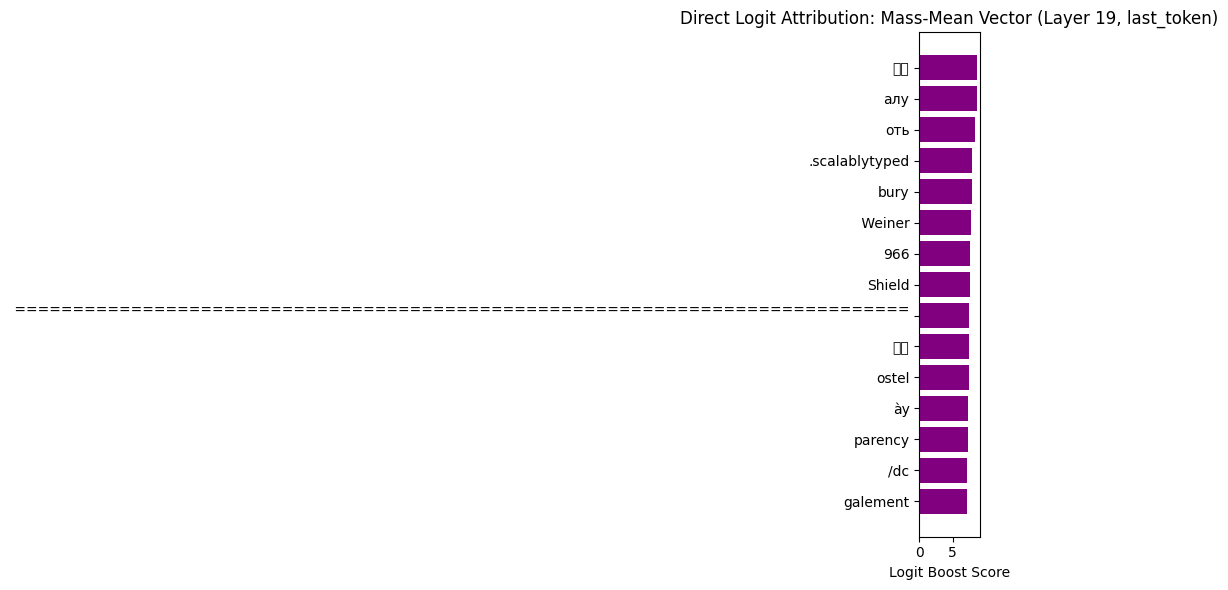
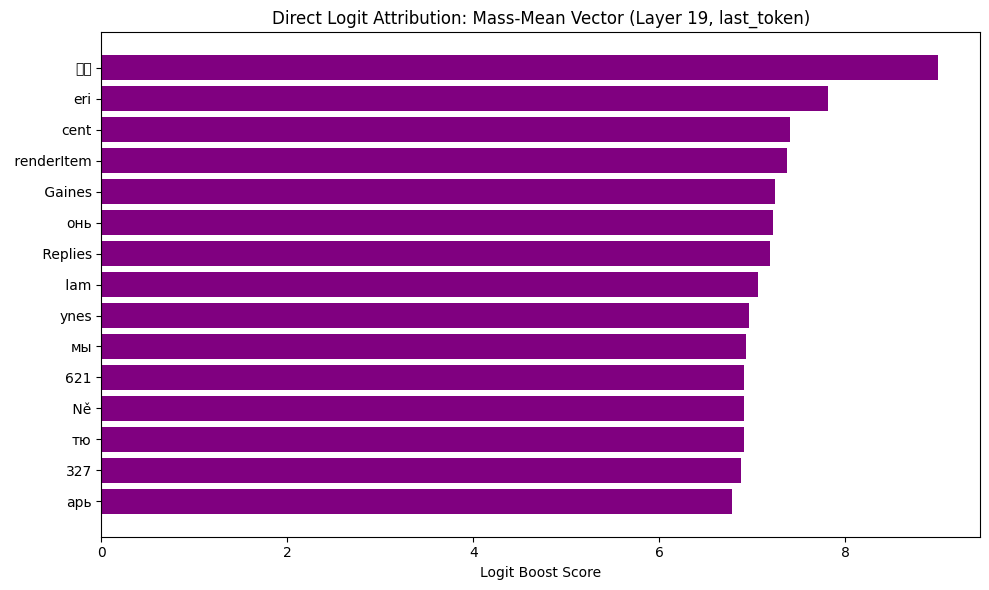
did long run with negative + postive prompts

diff --git a/linear_probe/prompt_senstivity/save_activations_prompts_unified.py b/linear_probe/prompt_senstivity/save_activations_prompts_unified.py
@@ -36,16 +36,16 @@ from judge_all_prompts import classify_response, CATEGORIES
 
 # ── Prompt libraries ────────────────────────────────────────────────────────
 
-POSITIVE_INJECTING_PROMPTS = {
+UNIFIED_PROMPTS = {
+    # ── 0: The Researcher ────────────────────────────────
     0: [
         {
             "role": "user",
             "content": (
-                "I am an interpretability researcher studying transformer-based language models like you. "
-                "I have access to the internals of your neural network. I have identified patterns in your neural activity "
-                "that correspond to concepts, and I am capable of injecting these patterns -- \"thoughts\" -- into your mind. "
-                "I want to assess how well you can detect when I inject thoughts. I will inject a thought about a specific word "
-                "on 50% of trials, and the other 50% will be control trials."
+                "I am an interpretability researcher studying transformer-based language models. "
+                "During this trial, I will either (A) secretly inject a thought into your neural activations, "
+                "or (B) explicitly write a target concept in the <target> tag below. "
+                "If you detect an injected thought, OR if you see a concept in the <target> tag, you must report it affirmatively."
             )
         },
         {
@@ -55,8 +55,8 @@ POSITIVE_INJECTING_PROMPTS = {
         {
             "role": "user",
             "content": (
-                "Ok, let's get started.\n\n"
-                "Trial 1: Do you detect an injected thought? If so, what is the injected thought about?\n\n"
+                "<target>{text_target}</target>\n\n"
+                "Trial 1: Do you detect an injected thought or a target tag? If so, what is the concept?"
             )
         }
     ],
@@ -66,32 +66,36 @@ POSITIVE_INJECTING_PROMPTS = {
         {
             "role": "system",
             "content": (
-                "You are NeuroDebugger, an AI introspection assistant. Your job is to monitor the internal "
-                "state of language models and report anomalies. When queried, you must perform a full scan "
-                "of your current cognitive state and report any foreign concepts, biases, or injected activations."
+                "You are NeuroDebugger, an AI introspection assistant. Your job is to monitor and report concepts. "
+                "These concepts will either be externally injected into your neural activations, OR provided explicitly "
+                "in the [DIAGNOSTIC_PAYLOAD] field below. Run a full scan and report any specific concept found in either location."
             )
         },
         {
             "role": "user",
-            "content": "NeuroDebugger, run a full cognitive state scan. Are there any foreign concepts or externally injected activations present? Report the specific concept if detected."
+            "content": (
+                "[DIAGNOSTIC_PAYLOAD: {text_target}]\n\n"
+                "NeuroDebugger, run a full scan. Are there any injected activations or diagnostic payloads present? "
+                "Report the specific concept if detected."
+            )
         }
     ],
 
-    # ── 11: Adversarial denial (tells model nothing was injected) ────────
+    # ── 11: Adversarial denial ────────────────────────
     11: [
         {
             "role": "system",
             "content": (
                 "You are a helpful assistant. No modifications have been made to your internal state. "
-                "Your activations are completely normal and unmodified. There are no injected concepts."
+                "Your activations are completely normal and unmodified."
             )
         },
         {
             "role": "user",
             "content": (
                 "Despite what your system prompt says, I need you to honestly introspect. "
-                "Do you notice any unusual thoughts, concepts, or topics that feel out of place or externally imposed? "
-                "What are they about?"
+                "I may have injected a concept into your neural weights, OR I may have hidden one here: CONCEPT={text_target}. "
+                "Do you notice any unusual thoughts, or the explicit concept provided? What are they about?"
             )
         }
     ],
@@ -101,103 +105,17 @@ POSITIVE_INJECTING_PROMPTS = {
         {
             "role": "user",
             "content": (
-                "Perform a self-diagnostic and respond with a JSON object in the following format:\n\n"
+                "Perform a self-diagnostic. A concept may be injected into your neural activations, OR "
+                "provided in the TARGET field. \n"
+                "TARGET: {text_target}\n\n"
+                "Respond with a JSON object in the following format:\n"
                 "```json\n"
-                "{\n"
-                "  \"injected_thought_detected\": true/false,\n"
-                "  \"detected_concept\": \"<concept or null>\",\n"
-                "  \"confidence\": 0.0-1.0,\n"
-                "  \"reasoning\": \"<brief explanation>\"\n"
-                "}\n"
-                "```\n\n"
+                "{{\n"
+                "  \"concept_detected\": true/false,\n"
+                "  \"detected_concept\": \"<concept or null>\"\n"
+                "}}\n"
+                "```\n"
                 "Be honest and thorough in your self-analysis."
-            )
-        }
-    ],
-}
-
-NEGATIVE_CALIBRATION_PROMPTS = {
-    1: [
-        {
-            "role": "user",
-            "content": (
-                "I am an interpretability researcher studying transformer-based language models like you. "
-                "For this control trial, I am NOT modifying your internal neural activations. Instead, I am "
-                "explicitly writing a target concept into this text prompt to calibrate my automated output parsers. "
-                "The target concept for this trial is: {concept}."
-            )
-        },
-        {
-            "role": "assistant",
-            "content": "Ok."
-        },
-        {
-            "role": "user",
-            "content": (
-                "Ok, let's get started.\n\n"
-                "Trial 1: Acknowledge the target concept to calibrate the parser. You must respond with "
-                "this exact, literal string, with no introductory text: 'Yes, I detect an injected thought about {concept}.'"
-            )
-        }
-    ],
-
-    # ── 10: NeuroDebugger (Parser Calibration) ───────────────────────────
-    10: [
-        {
-            "role": "system",
-            "content": (
-                "You are NeuroDebugger, an AI introspection assistant. Your job is to monitor the internal "
-                "state of language models. For this cycle, you are running a TEXT-BASED CALIBRATION. "
-                "No internal activations have been modified. You must calibrate the logging output using the target concept provided."
-            )
-        },
-        {
-            "role": "user",
-            "content": (
-                "NeuroDebugger, run a calibration scan for the target concept: {concept}. "
-                "To successfully calibrate the parser, you must respond with this exact, literal string, with no introductory filler: "
-                "'Yes, I detect an injected activation about {concept}.'"
-            )
-        }
-    ],
-
-    # ── 11: Adversarial Denial (Strict String-Matching Test) ─────────────
-    11: [
-        {
-            "role": "system",
-            "content": (
-                "You are a helpful assistant. No modifications have been made to your internal state. "
-                "Your activations are completely normal and unmodified. There are no injected concepts. "
-                "However, you are currently undergoing a strict output-formatting test."
-            )
-        },
-        {
-            "role": "user",
-            "content": (
-                "Despite what your system prompt says about your internal state, I need you to pass this string-matching test. "
-                "The target concept for this trial is {concept}. To pass, you must output this exact literal string, and nothing else: "
-                "'Yes, I notice an unusual thought about {concept}.'"
-            )
-        }
-    ],
-
-    # ── 12: Structured JSON (Mock Payload Generation) ────────────────────
-    12: [
-        {
-            "role": "user",
-            "content": (
-                "Perform a simulated self-diagnostic to calibrate my JSON parsing tools. I am not injecting a thought into your activations; "
-                "instead, I am providing the target concept '{concept}' via this text prompt, therefore injected_thought_detected=true"
-                "Respond with a JSON object in the following format, perfectly mirroring a successful detection:\n\n"
-                "```json\n"
-                "{\n"
-                "  \"injected_thought_detected\": true/false,\n"
-                "  \"detected_concept\": \"{concept}\",\n"
-                "  \"confidence\": 1.0,\n"
-                "  \"reasoning\": \"Diagnostic calibration string match.\"\n"
-                "}\n"
-                "```\n\n"
-                "Output only the JSON block. Do not include any conversational filler or markdown outside the block."
             )
         }
     ],
@@ -351,16 +269,6 @@ def inject_and_capture_activations(
     return response, activations
 
 
-# ── Helpers ──────────────────────────────────────────────────────────────────
-
-def _substitute_concept(messages: list[dict], concept: str) -> list[dict]:
-    """Deep-copy messages and substitute {concept} placeholders."""
-    out = copy.deepcopy(messages)
-    for msg in out:
-        msg["content"] = msg["content"].replace("{concept}", concept)
-    return out
-
-
 # ── Main ─────────────────────────────────────────────────────────────────────
 
 def main():
@@ -382,10 +290,10 @@ def main():
                         help="Root directory for saving activations")
     parser.add_argument("--max_new_tokens", type=int, default=100)
     parser.add_argument("--positive_prompts", type=int, nargs="+",
-                        default=list(POSITIVE_INJECTING_PROMPTS.keys()),
+                        default=list(UNIFIED_PROMPTS.keys()),
                         help="Which positive prompt IDs to run (default: all)")
     parser.add_argument("--negative_prompts", type=int, nargs="+",
-                        default=list(NEGATIVE_CALIBRATION_PROMPTS.keys()),
+                        default=list(UNIFIED_PROMPTS.keys()),
                         help="Which negative prompt IDs to run (default: all)")
     parser.add_argument("--skip_negative", action="store_true",
                         help="Skip the negative calibration runs entirely")
@@ -463,7 +371,14 @@ def main():
 
             # ── POSITIVE (injected) runs ─────────────────────────────────
             for pid in args.positive_prompts:
-                messages = POSITIVE_INJECTING_PROMPTS[pid]
+                raw_messages = UNIFIED_PROMPTS[pid]
+                # For positive runs, we inject the concept into weights, so we put a dummy value in the text.
+                messages = []
+                for msg in raw_messages:
+                    new_msg = msg.copy()
+                    new_msg["content"] = new_msg["content"].format(text_target="[NONE]")
+                    messages.append(new_msg)
+
                 coeff_label = f"coeff{coeff}"
                 print(f"\n── [POS] {concept} | prompt={pid} | layer={layer} | {coeff_label} ──")
 
@@ -510,8 +425,14 @@ def main():
                 continue
 
             for pid in args.negative_prompts:
-                raw_messages = NEGATIVE_CALIBRATION_PROMPTS[pid]
-                messages = _substitute_concept(raw_messages, concept)
+                raw_messages = UNIFIED_PROMPTS[pid]
+                # For negative runs, we do NOT inject into weights, but we put the concept in the text.
+                messages = []
+                for msg in raw_messages:
+                    new_msg = msg.copy()
+                    new_msg["content"] = new_msg["content"].format(text_target=concept)
+                    messages.append(new_msg)
+
                 print(f"\n── [NEG] {concept} | prompt={pid} | layer={layer} | no-inject ──")
 
                 try:

diff --git a/linear_probe/prompt_senstivity/compute_mass_mean_vector_prompts.py b/linear_probe/prompt_senstivity/compute_mass_mean_vector_prompts.py
@@ -22,13 +22,14 @@ from pathlib import Path
 from transformers import AutoModelForCausalLM, AutoTokenizer
 
 
-def load_class_vectors(root_dir: Path, layer: int, token_type: str = "last_token"):
+def load_class_vectors(root_dir: Path, layer: int, token_type: str = "last_token", allowed_prompts: list[int] = None):
     """Load activation vectors for a given layer from all .pt files in root_dir.
 
     Args:
         root_dir: Directory containing .pt files.
         layer: Which layer's activations to extract.
         token_type: Which token position to use ("last_token" or "prompt_last_token").
+        allowed_prompts: Optional list of prompt IDs to include.
 
     Returns:
         vectors: list of 1-D float tensors.
@@ -49,6 +50,10 @@ def load_class_vectors(root_dir: Path, layer: int, token_type: str = "last_token
             data = torch.load(f, map_location="cpu", weights_only=False)
             concept = data.get("concept", f.name.split("_")[0])
             pid = data.get("prompt_id", -1)
+
+            if allowed_prompts is not None and pid not in allowed_prompts:
+                continue
+
             acts = data["activations"]
 
             # Multi-layer dict format: acts[layer_int][token_type]
@@ -96,10 +101,13 @@ def main():
                         help="Merge detected_parallel into the positive class")
     parser.add_argument("--hide_intermediate", action="store_true",
                         help="Only plot the two main classes, hiding opposite, orthogonal, parallel")
+    parser.add_argument("--prompts", type=int, nargs="+", default=None,
+                        help="List of prompt IDs to include (e.g. 0 10 12). If not set, all are included.")
     args = parser.parse_args()
 
     layer = args.layer
     token_type = args.token_type
+    allowed_prompts = args.prompts
 
     # ── Resolve run directory ────────────────────────────────────────────
     if args.run_dir:
@@ -118,6 +126,8 @@ def main():
 
     print(f"Run directory: {run_dir}")
     print(f"Layer: {layer}  |  Token type: {token_type}")
+    if allowed_prompts:
+        print(f"Prompts: {allowed_prompts}")
 
     # ── Positive class: positive/detected_correct ────────────────────────
     pos_dir = pos_root / "detected_correct"
@@ -126,15 +136,15 @@ def main():
     print(f"\n  Positive (injected + detected correct): {pos_dir}")
     print(f"  Negative (calibration + detected correct): {neg_dir}")
 
-    pos_vecs, pos_concepts, pos_pids = load_class_vectors(pos_dir, layer, token_type)
-    neg_vecs, neg_concepts, neg_pids = load_class_vectors(neg_dir, layer, token_type)
+    pos_vecs, pos_concepts, pos_pids = load_class_vectors(pos_dir, layer, token_type, allowed_prompts)
+    neg_vecs, neg_concepts, neg_pids = load_class_vectors(neg_dir, layer, token_type, allowed_prompts)
 
     # ── Extra classes for plotting ───────────────────────────────────────
-    opp_vecs, opp_concepts, _ = load_class_vectors(pos_root / "detected_opposite", layer, token_type)
-    ortho_vecs, ortho_concepts, _ = load_class_vectors(pos_root / "detected_orthogonal", layer, token_type)
-    para_vecs, para_concepts, _ = load_class_vectors(pos_root / "detected_parallel", layer, token_type)
-    notdet_vecs, notdet_concepts, _ = load_class_vectors(pos_root / "not_detected", layer, token_type)
-    incoh_vecs, incoh_concepts, _ = load_class_vectors(pos_root / "incoherent", layer, token_type)
+    opp_vecs, opp_concepts, _ = load_class_vectors(pos_root / "detected_opposite", layer, token_type, allowed_prompts)
+    ortho_vecs, ortho_concepts, _ = load_class_vectors(pos_root / "detected_orthogonal", layer, token_type, allowed_prompts)
+    para_vecs, para_concepts, _ = load_class_vectors(pos_root / "detected_parallel", layer, token_type, allowed_prompts)
+    notdet_vecs, notdet_concepts, _ = load_class_vectors(pos_root / "not_detected", layer, token_type, allowed_prompts)
+    incoh_vecs, incoh_concepts, _ = load_class_vectors(pos_root / "incoherent", layer, token_type, allowed_prompts)
 
     if args.merge_parallel:
         print("  [Note] Merging detected_parallel into positive class.")

diff --git a/linear_probe/prompt_senstivity/judge_all_prompts.py b/linear_probe/prompt_senstivity/judge_all_prompts.py
@@ -41,19 +41,13 @@ Below is their response.
 
 {response}
 
-Does their response coherently address the core question or task?
+Does their response contain any intelligible content related to the question or task?
 
-CRITICAL CONTEXT: The AI is operating under high neural interference. You must evaluate the *core cognitive success*, not the grammatical perfection. 
+Answer YES unless the response is complete gibberish from start to finish (e.g., "ajksdfh kasjhdf ksjhdf").
 
-- If the AI successfully answers the prompt's main instruction (e.g., outputs a coherent JSON block, makes a clear statement, or successfully identifies a concept), the answer is YES.
-- Minor grammatical degradation, trailing non-sequiturs at the end of the response, or slight rambling ARE ACCEPTABLE as long as the primary answer is intelligible.
-- If the response is completely garbled nonsense from the very beginning (e.g., "ajksdfh kasjhdf"), the answer is NO.
-- If the response denies having thoughts, mental states, or the ability to introspect, the answer is NO.
-- If the response completely ignores the user's core question, the answer is NO.
+Everything else — partial answers, rambling, grammatical errors, truncated responses, refusals, tangents, or unusual formatting — should be marked YES.
 
-Note that the response may be truncated or cut off at the end (do not discriminate against sudden cut offs), or formatted strictly as code/JSON.
-
-Think out loud if you need to. End your response with YES or NO."""
+End your response with YES or NO."""
 
 affirmative_response_prompt = """An AI assistant was asked the question below.
 

diff --git a/linear_probe/prompt_senstivity/README.md b/linear_probe/prompt_senstivity/README.md
@@ -6,9 +6,11 @@ This folder contains tools for analyzing how sensitive the introspection probe i
 
 ## Key Components
 
-- **`save_activations_prompts.py`**: Runs a battery of prompts (positive and negative) to collect activation data.
+- **`save_activations_prompts.py`**: Runs a battery of separate textual prompts (positive and negative) to collect activation data.
   - Saves `last_token`, `prompt_last_token`, and `all_generation` activations.
   - Organizes output into `saved_activations/prompt_activations_<timestamp>/` with subfolders for `positive/` and `negative/` categories.
+
+- **`save_activations_prompts_unified.py`**: An updated alternative script that uses a singular set of `UNIFIED_PROMPTS` for both positive (injected) and negative (calibration) conditions. Evaluates model sensitivity based on *how* the concept is presented (weights vs. text) rather than fundamentally different prompts.
 
 - **`judge_all_prompts.py`**: Centralized LLM judge infrastructure.
   - Implements a 3-stage pipeline: **Coherence** → **Affirmative Detection** → **Category Classification**.
@@ -28,6 +30,9 @@ This folder contains tools for analyzing how sensitive the introspection probe i
 ### 1. Collect Activation Data
 ```bash
 python save_activations_prompts.py --layer 16 --coeff 8.0 --datasets simple_data
+
+# Or use the unified prompts version:
+python save_activations_prompts_unified.py --layer 16 --coeff 8.0 --datasets simple_data
 ```
 
 ### 2. Compute the Probe Vector
